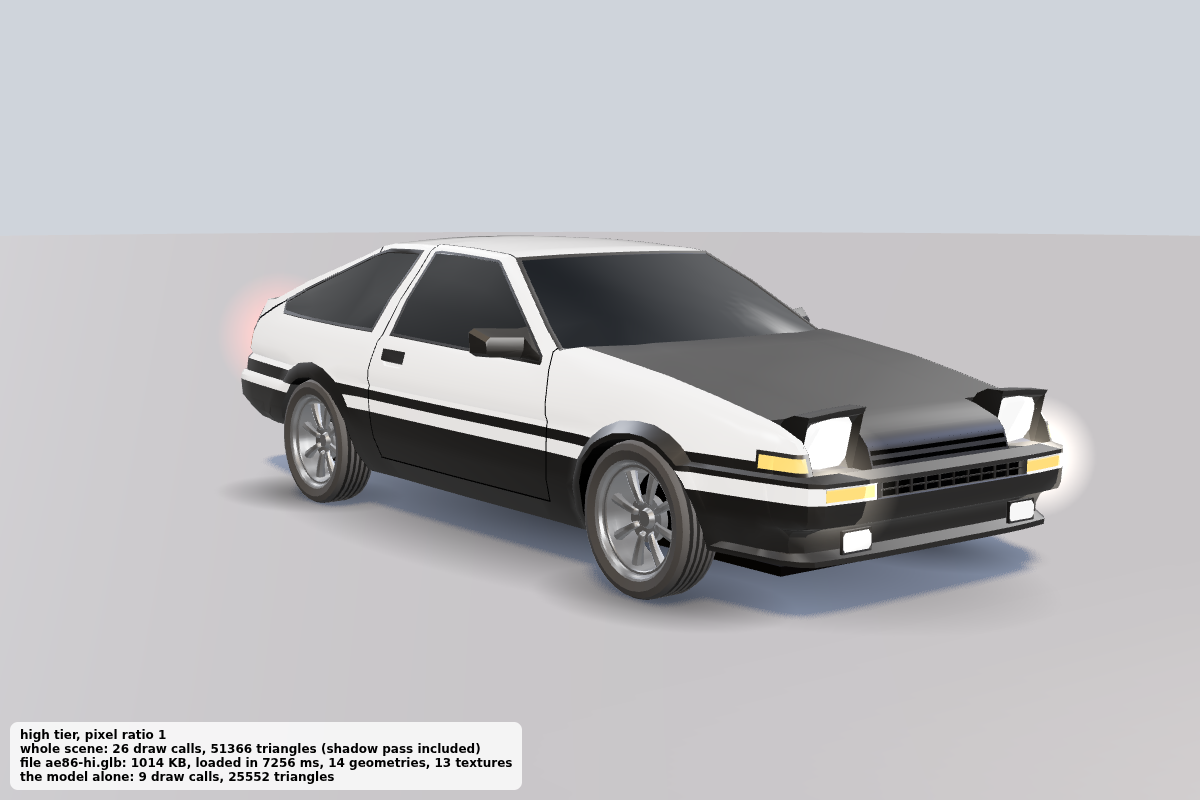
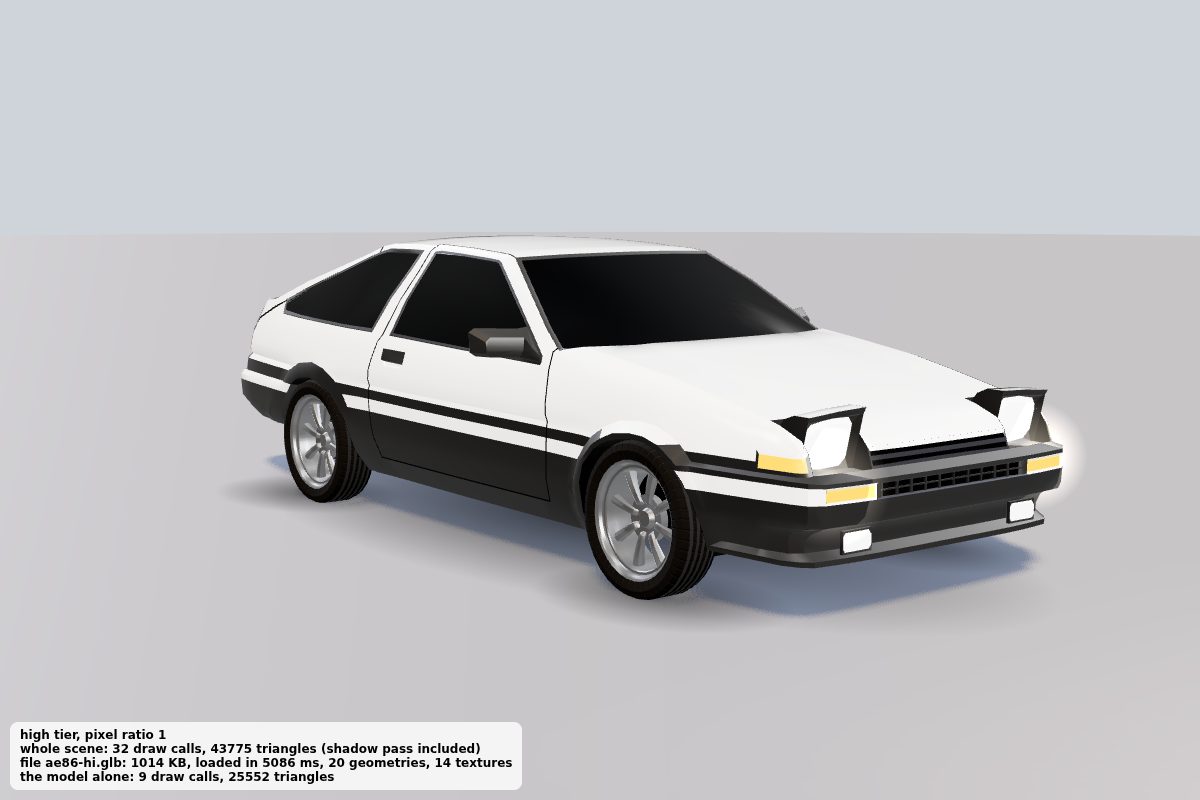
AE86 bonnet and nose in the garage paint (cars.json fx.paintParts: up-facing faces of the black trim field in a box take the paint at load); showroom front and side in white

diff --git a/game/view/carfx.js b/game/view/carfx.js
@@ -102,7 +102,7 @@ const tag = (o) => { o.userData.fx = true; o.traverse((c) => { c.userData.fx = t
  * the AE86's windows share the palette material with the black trim, and glass must reflect much less than trim.
  * @returns the new mesh, or null when no face lies on that field
  */
-export function splitPalette(group, uvAt, material, tol = 0.06, { all = false, only = null } = {}) {
+export function splitPalette(group, uvAt, material, tol = 0.06, { all = false, only = null, where = null } = {}) {
   let made = null; const list = [];
   group.traverse((o) => { if (o.isMesh) list.push(o); });
   for (const o of list) {
@@ -110,7 +110,14 @@ export function splitPalette(group, uvAt, material, tol = 0.06, { all = false, o
     const g = o.geometry, uv = g.attributes.uv, idx = g.index ? g.index.array : [...Array(g.attributes.position.count).keys()];
     const on = (i) => Math.abs(uv.getX(i) - uvAt[0]) < tol && Math.abs(uv.getY(i) - uvAt[1]) < tol;
     const keep = [], take = [];
-    for (let t = 0; t < idx.length; t += 3) (on(idx[t]) && on(idx[t + 1]) && on(idx[t + 2]) ? take : keep).push(idx[t], idx[t + 1], idx[t + 2]);
+    const pos = g.attributes.position, A = new THREE.Vector3(), B = new THREE.Vector3(), C = new THREE.Vector3(), N = new THREE.Vector3();
+    const inPlace = (t) => {   // `where(centre, normal)`: only faces in a place (car axes), e.g. the bonnet's top
+      if (!where) return true;
+      A.fromBufferAttribute(pos, idx[t]); B.fromBufferAttribute(pos, idx[t + 1]); C.fromBufferAttribute(pos, idx[t + 2]);
+      N.subVectors(C, B).cross(_v.subVectors(A, B)).normalize();
+      return where(A.add(B).add(C).multiplyScalar(1 / 3), N);
+    };
+    for (let t = 0; t < idx.length; t += 3) (on(idx[t]) && on(idx[t + 1]) && on(idx[t + 2]) && inPlace(t) ? take : keep).push(idx[t], idx[t + 1], idx[t + 2]);
     if (!take.length) continue;
     const g2 = g.clone(); g2.setIndex(take); g.setIndex(keep);
     made = new THREE.Mesh(g2, material); made.name = o.name + '_' + (material.name ?? 'part');
@@ -169,6 +176,14 @@ export function treadTyres(group, uvAt, colour = 0x1b1b1d) {
 export function dressCar(group, spec = {}, { lite = false } = {}) {
   // windows: their own dark tinted glass, a weak reflection of the sky (the palette's glass reflected it fully: a pale plate)
   if (spec.tyreUv) treadTyres(group, spec.tyreUv);
+  // parts of the model's own dark trim that are body panels (the AE86's bonnet): they take the garage paint like the rest of the body
+  const paintMesh = group.getObjectByName('body_paint');
+  for (const part of spec.paintParts ?? []) {
+    if (!paintMesh) break;
+    const [lo, hi] = [new THREE.Vector3(...part.lo), new THREE.Vector3(...part.hi)];
+    const n = splitPalette(group, part.uv, paintMesh.material, 0.06, { only: /^body_/, where: (c, nrm) => c.x >= lo.x && c.x <= hi.x && c.y >= lo.y && c.y <= hi.y && c.z >= lo.z && c.z <= hi.z && nrm.y >= (part.up ?? -1) });
+    if (n) n.name = 'body_paint_' + (part.name ?? 'part');
+  }
   if (spec.glassUv) {
     let env = null; group.traverse((o) => { if (o.isMesh && !env) env = o.material?.envMap ?? null; });
     splitPalette(group, spec.glassUv, new THREE.MeshStandardMaterial({ name: 'fx_glass', color: 0x05070b, metalness: 0, roughness: 0.06, envMap: env, envMapIntensity: 0.32 }));

diff --git a/docs/CAR-PIPELINE.md b/docs/CAR-PIPELINE.md
@@ -129,6 +129,11 @@ possible without remodelling). In the game: `?model=ae86` (the car is not in `ca
 
 ### Round for the touge acceptance list (G1 to G8), 2026-11-26
 
+- Done at load from `cars.json` `fx` while the GPU PC is off (no new export needed): `glassUv` (the windows out of the palette into
+  dark tinted glass), `tyreUv` (the tyres out of each wheel, with UVs and a tread normal map), `paintParts` (the AE86's bonnet and
+  nose: up-facing faces of the black trim field in a box take the garage paint, as on the real car; a dark bonnet can become an
+  option later).
+
 - Headlight pool (G6): a flat 5 x 11 m sheet (2 x 6 segments) with a fan texture (hard near edge, fading far ahead), laid on
   the road every frame (each point 1.5 cm over `field.groundY`), warm white, additive, no depth writes.
 - Lamps (G3): rear lamps glow at 3.2 (brake 2.5 times that), a soft camera-facing halo of 35 to 40 cm at each lamp (depth tested,
